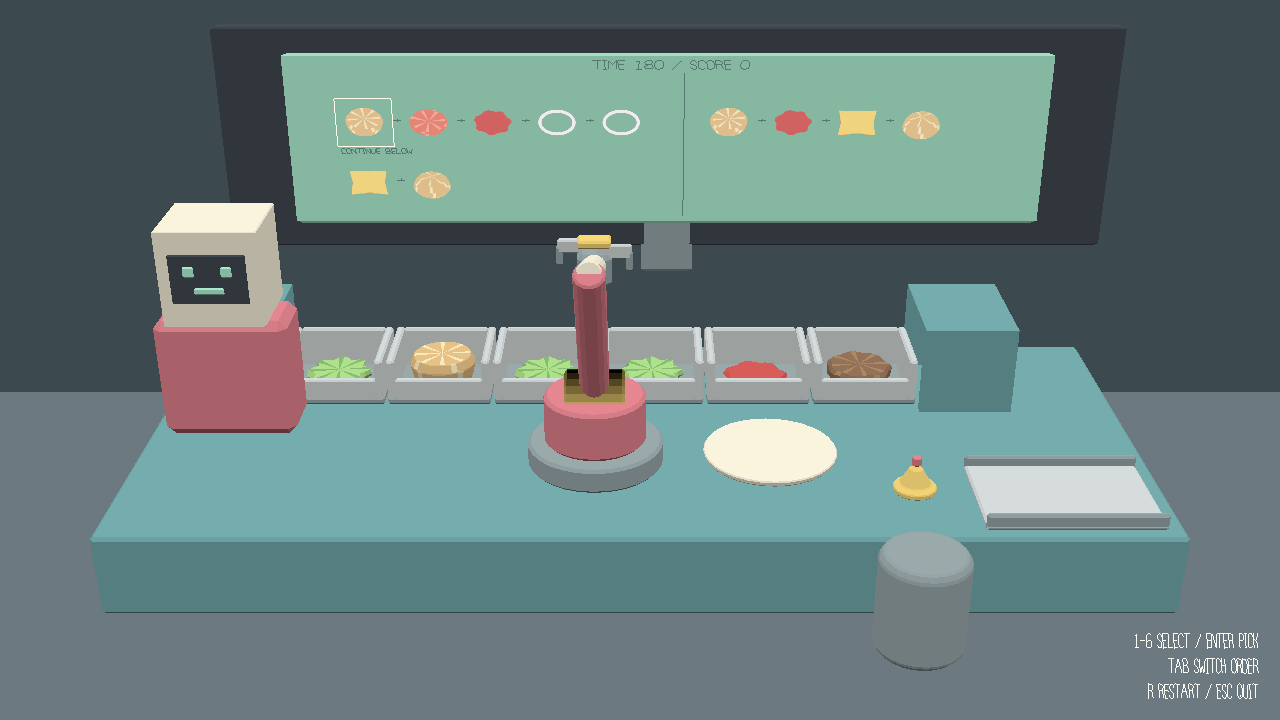
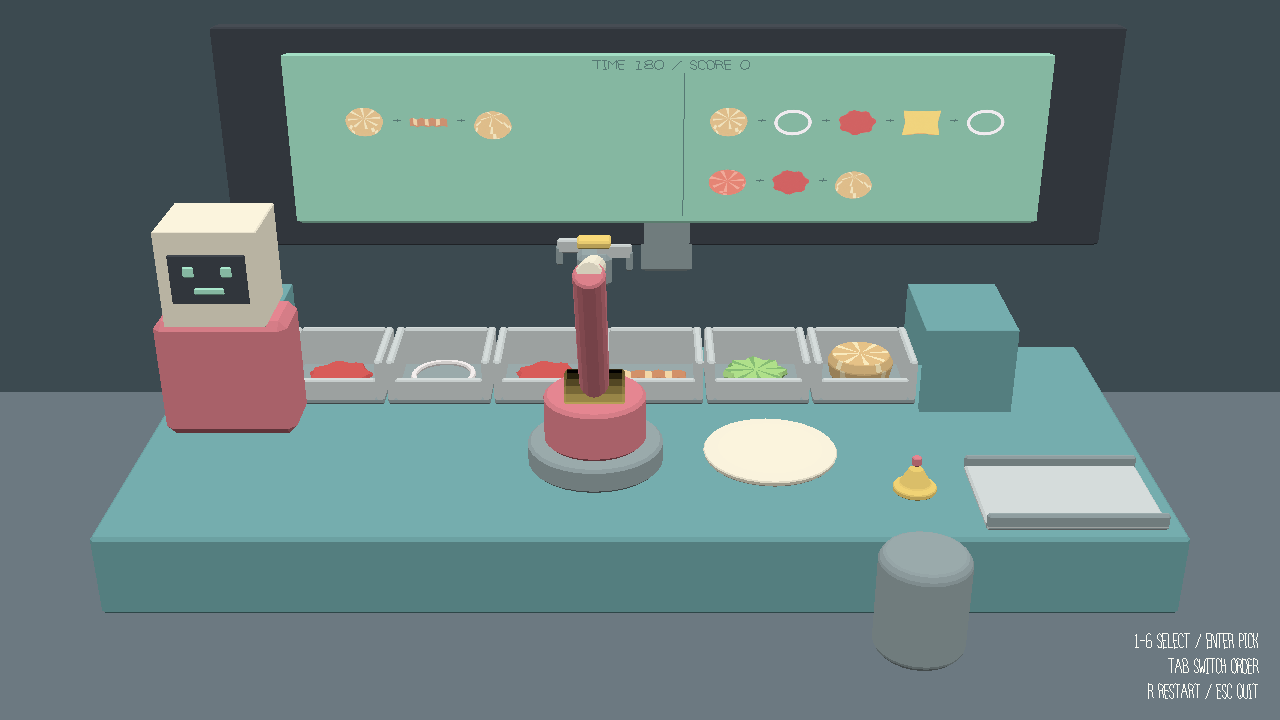
Remove CORRECT and ENTER to Grab hints and update screenshot

diff --git a/PlayMode.cpp b/PlayMode.cpp
@@ -728,9 +728,8 @@ void PlayMode::draw(glm::uvec2 const &drawable_size) {
 		std::string status;
 		if (released && game.pending) {
 			status = game.pending->outcome == burger::PickOutcome::Wrong ? "WRONG - TRY AGAIN" :
-				(game.pending->outcome == burger::PickOutcome::Completed ? "ORDER COMPLETE!" : "CORRECT");
+				(game.pending->outcome == burger::PickOutcome::Completed ? "ORDER COMPLETE!" : "");
 		}
-		if (phase == Phase::Hovering) status = "ENTER TO GRAB";
 		if (phase == Phase::GameOver) status = "TIME UP - R TO RESTART";
 		text(status, -1.07f, 0.52f, 0.08f, ink);
 	}
